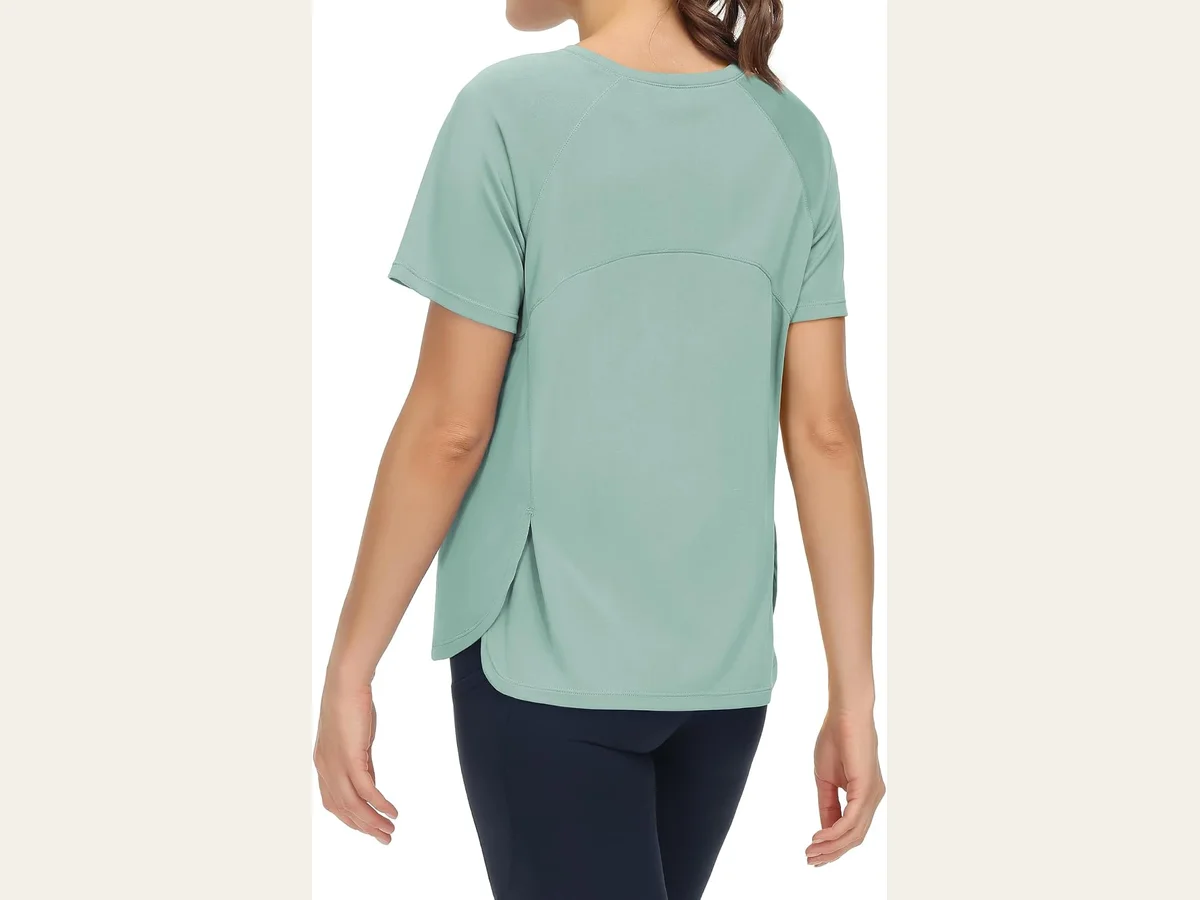
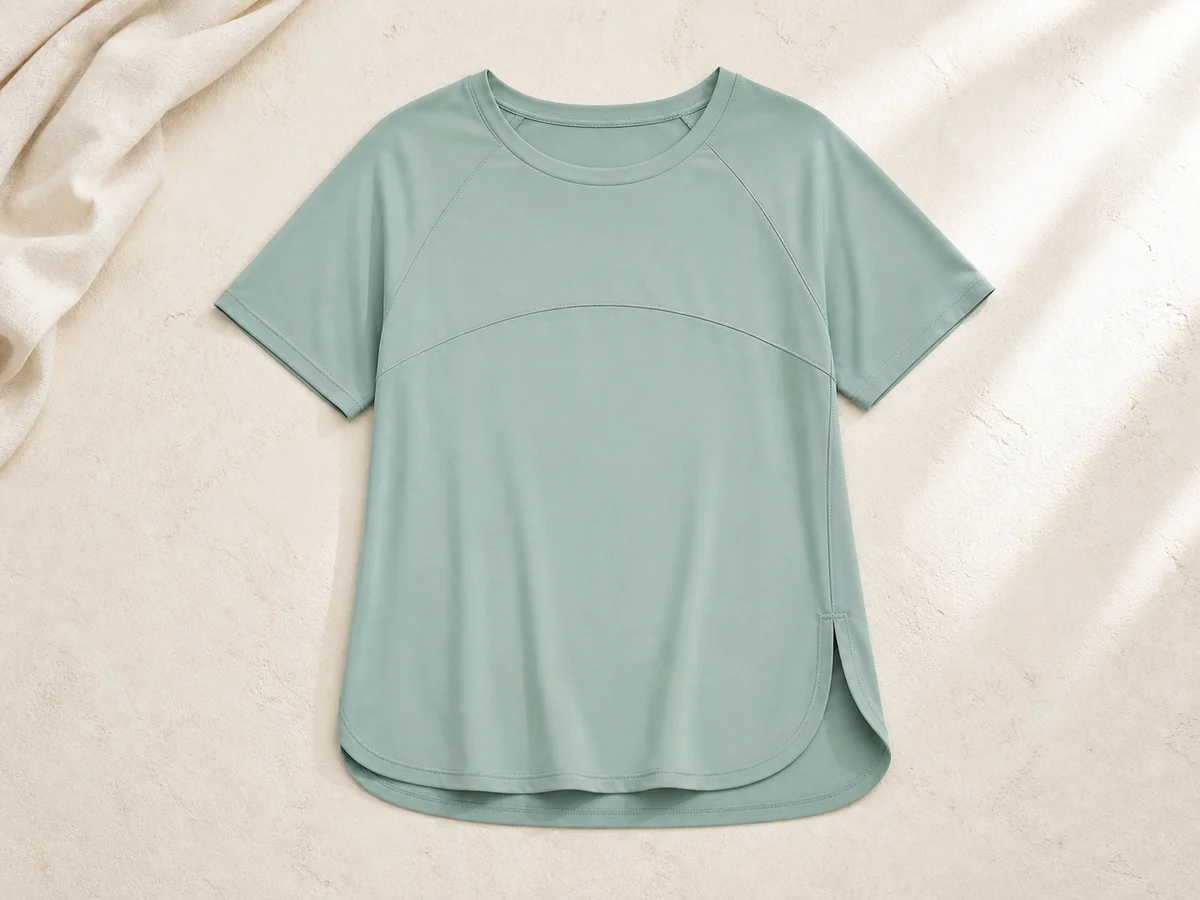
Improve announcement type and workout tee imagery

diff --git a/src/data/catalog.ts b/src/data/catalog.ts
@@ -25,7 +25,7 @@ type Product = {
 
 export const products: Product[] = [
   { slug: "everlane-oversized-blazer", category: "clothing", name: "Everlane The Oversized Blazer in Buttersmooth", storyTitle: "The relaxed blazer I would compare before autumn", summary: "Relaxed tailoring is useful only when the shoulders, sleeves, and layers underneath all work together. This one is worth measuring, not guessing.", image: "/images/vg-category-style.png", imageAlt: "Black blazer, ivory knit top, loafer, and gold cuff arranged on a warm neutral surface", forWho: "I put this blazer on the list for its easy, menswear-leaning shape. It makes the most sense for someone who wants room through the body and is prepared to compare the measurements with a jacket already in the wardrobe.", pros: ["Everlane describes an oversized fit and a 31-inch length in size 6", "The shell is listed as 60% TENCEL Lyocell and 40% cotton"], cons: ["The brand notes that the arms are cut closer than the body", "An oversized label does not replace checking shoulder, sleeve, and jacket length"], alternatives: ["Relaxed blazer", "Unstructured jacket", "Cardigan jacket"], sourceUrl: "https://www.everlane.com/products/womens-tencel-oversized-blazer-black", sourceName: "Everlane US product page", affiliateUrl: null },
-  { slug: "gym-people-workout-tee", category: "clothing", name: "THE GYM PEOPLE short-sleeve workout tee", storyTitle: "A workout tee for the days that do not need a complicated outfit", summary: "The side slits and relaxed shape caught my eye. The useful questions are still the ordinary ones: length, opacity, fabric feel, and return terms.", image: "/images/vg-product-gym-tee.webp", imageAlt: "THE GYM PEOPLE short-sleeve workout tee shown in the retailer listing", imageMode: "product", forWho: "I would shortlist this for walking, yoga, or a gym session when a close-fitting performance top feels like too much. The size chart and finished length matter more than the styled listing photos.", pros: ["The Amazon listing describes a women's short-sleeve workout tee with side slits", "The listing provides size, color, fabric, and return information to check before ordering"], cons: ["A relaxed fit can still sit very differently from one size to the next", "Opacity and hand feel are difficult to judge from a screen"], alternatives: ["Fitted training tee", "Lightweight long-sleeve layer", "Relaxed cotton tee"], sourceUrl: "https://www.amazon.com/dp/B0BRJ7M782", sourceName: "Amazon US product listing", affiliateUrl: "https://pboost.me/G40AQ8J6" },
+  { slug: "gym-people-workout-tee", category: "clothing", name: "THE GYM PEOPLE short-sleeve workout tee", storyTitle: "A workout tee for the days that do not need a complicated outfit", summary: "The side slits and relaxed shape caught my eye. The useful questions are still the ordinary ones: length, opacity, fabric feel, and return terms.", image: "/images/vg-product-gym-tee.webp", imageAlt: "Mint-green short-sleeve workout tee arranged flat on a warm ivory surface", imageMode: "product", forWho: "I would shortlist this for walking, yoga, or a gym session when a close-fitting performance top feels like too much. The size chart and finished length matter more than the styled listing photos.", pros: ["The Amazon listing describes a women's short-sleeve workout tee with side slits", "The listing provides size, color, fabric, and return information to check before ordering"], cons: ["A relaxed fit can still sit very differently from one size to the next", "Opacity and hand feel are difficult to judge from a screen"], alternatives: ["Fitted training tee", "Lightweight long-sleeve layer", "Relaxed cotton tee"], sourceUrl: "https://www.amazon.com/dp/B0BRJ7M782", sourceName: "Amazon US product listing", affiliateUrl: "https://pboost.me/G40AQ8J6" },
   { slug: "coach-brooklyn-shoulder-bag-28", category: "bags-accessories", name: "Coach Brooklyn Shoulder Bag 28", storyTitle: "A closer look at the smaller Brooklyn shoulder bag", summary: "Its appeal is the uncomplicated shape: one main compartment, a broad strap, and enough structure to look polished without feeling formal.", image: "/images/vg-editorial-shoulder-bag.png", imageAlt: "Dark leather shoulder bag with a wide strap in a bright stone interior", forWho: "This is the bag I would compare for someone who carries a compact daily kit and would rather have one open compartment than a stack of dividers. The decision comes down to the 11-inch scale and the open magnetic top.", pros: ["Coach lists natural grain leather, a magnetic snap closure, and a 10.5-inch handle drop", "The listed measurements are 11 by 11 by 3.25 inches"], cons: ["A magnetic top is easy to reach into but less enclosed than a zipper", "The capacity should be checked against the actual items carried each day"], alternatives: ["Zip-top shoulder bag", "Structured crossbody", "Large work tote"], sourceUrl: "https://www.coach.com/products/brooklyn-shoulder-bag-28/CU068.html", sourceName: "Coach US product page", affiliateUrl: null },
   { slug: "sam-edelman-bianka-slingback", category: "womens-shoes", name: "Sam Edelman Bianka Slingback Pump", storyTitle: "The low slingback that can finish more than one kind of outfit", summary: "A pointed toe and modest heel give this pair a dressed-up line without turning it into an occasion-only shoe.", image: "/images/vg-category-shoes.png", imageAlt: "Pair of ivory pointed slingback shoes on a pale stone plinth", forWho: "I would compare this one for work, dinners, or events when a full-height pump feels unnecessary. A careful indoor try-on is still the only honest way to judge the pointed toe and slingback strap.", pros: ["Sam Edelman lists a 2.4-inch heel and an adjustable buckle closure", "The brand page provides material, size, shipping, and return information"], cons: ["A pointed toe changes the amount of usable room at the front", "Comfort cannot be established from a product listing"], alternatives: ["Low block heel", "Ballet flat", "Leather loafer"], sourceUrl: "https://www.samedelman.com/product/womens-bianka-slingback-pump-3028153/black-leather-ec0238363", sourceName: "Sam Edelman US product page", affiliateUrl: null },
   { slug: "shokz-openfit-2-plus", category: "audio", name: "Shokz OpenFit 2+ open-ear headphones", storyTitle: "The open-ear headphones I would choose for awareness, not silence", summary: "The appeal is being able to hear music without closing off the room or the street. Fit, sound leakage, and the open design matter more than a long feature list.", image: "/images/vg-product-shokz-openfit2plus-editorial.webp", imageAlt: "Silver-white Shokz OpenFit 2+ earbuds displayed with their open charging case", imageMode: "product", forWho: "I would compare these for walking, desk work, or everyday listening when staying aware of the surroundings is part of the point. They make less sense for someone whose first priority is isolation on a noisy flight or train.", pros: ["Shokz describes an open-ear design intended to keep the wearer aware of the surroundings", "The official page lists up to 48 hours of total listening time and wireless charging for the OpenFit 2+"], cons: ["An open design does not isolate noise like sealed in-ear headphones", "Ear-hook comfort and sound leakage are personal and should be checked within the return window"], alternatives: ["Noise-cancelling earbuds", "Lightweight over-ear headphones", "Neckband open-ear headphones"], sourceUrl: "https://shokz.com/products/openfit2plus", sourceName: "Shokz OpenFit 2+ official product page", affiliateUrl: "https://yeahpromos.com/index/index/openurl?track=38d5602589087b8c&url=" },

diff --git a/src/app/story.css b/src/app/story.css
@@ -12,7 +12,7 @@
 
 .trend-bar {
   display: flex;
-  height: 30px;
+  height: 34px;
   align-items: flex-start;
   justify-content: center;
   overflow: hidden;
@@ -23,15 +23,16 @@
 .trend-bar span {
   display: flex;
   width: min(720px, 76vw);
-  height: 28px;
+  height: 32px;
   align-items: center;
   justify-content: center;
   padding: 0 42px;
   background: var(--deep);
   clip-path: polygon(14px 0, calc(100% - 14px) 0, 100% 50%, calc(100% - 14px) 100%, 14px 100%, 0 50%);
-  font-size: 10px;
+  font-size: 12px;
   font-weight: 700;
   letter-spacing: 1px;
+  white-space: nowrap;
   text-transform: uppercase;
 }
 
@@ -238,14 +239,15 @@
 
 @media (max-width: 560px) {
   .trend-bar {
-    height: 27px;
+    height: 31px;
   }
 
   .trend-bar span {
-    width: calc(100% - 44px);
-    height: 25px;
-    padding: 0 24px;
-    font-size: 8px;
+    width: calc(100% - 20px);
+    height: 29px;
+    padding: 0 14px;
+    font-size: 10px;
+    letter-spacing: .4px;
   }
 
   .site-header.site-header-simple {
